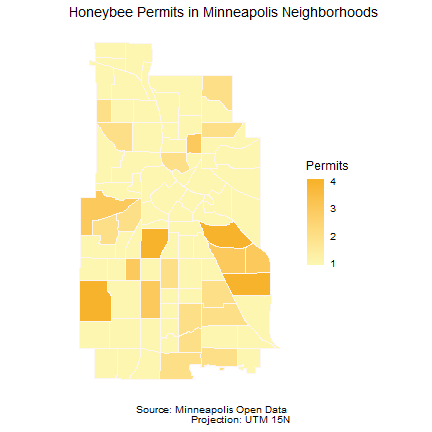
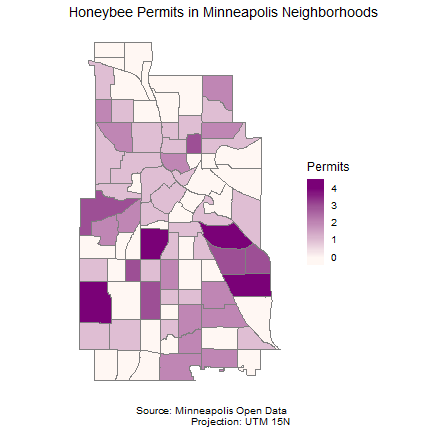
update new calculations

diff --git a/index.html b/index.html
@@ -278,19 +278,19 @@ One way to think about clustering is to ask whether or not the permits are clust
 permits_per_nb &lt;- neighborhoods %&gt;% 
   st_join(honeybees_utm) %&gt;% # which neighborhood is each permit in?
   group_by(BDNAME) %&gt;% # and when we sum by neighborhood
-  summarise(permits = n()) # how many permits total?
+  summarise(permits = sum(!is.na(OBJECTID))) # how many permits total?
 
 summary(permits_per_nb$permits)
 ```
 
 ```
 ##    Min. 1st Qu.  Median    Mean 3rd Qu.    Max. 
-##   1.000   1.000   1.000   1.437   2.000   4.000
+##   0.000   0.000   1.000   1.034   2.000   4.000
 ```
 
 &lt;br&gt;
 
-On average, there are **1.437** honeybee permits per neighborhood. 
+On average, there are **1.034** honeybee permits per neighborhood. 
 
 &lt;br&gt;
 
@@ -387,7 +387,7 @@ moran.mc(honeybees_sp$permits, weights, nsim=9999)
 ## weights: weights  
 ## number of simulations + 1: 10000 
 ## 
-## statistic = 0.085266, observed rank = 9392, p-value = 0.0608
+## statistic = 0.13366, observed rank = 9869, p-value = 0.0131
 ## alternative hypothesis: greater
 ```
 
@@ -397,9 +397,9 @@ moran.mc(honeybees_sp$permits, weights, nsim=9999)
 
 ### Moran's I
 
-statistic = &lt;mark&gt;0.085266&lt;/mark&gt;, observed rank = 9392, p-value = &lt;mark&gt;0.0608&lt;/mark&gt;
+statistic = &lt;mark&gt;0.13366&lt;/mark&gt;, observed rank = 9869, p-value = &lt;mark&gt;0.0131&lt;/mark&gt;
 
-Based on this, we fail to reject our null hypothesis and say that the permits are distributed **spatially randomly** across neighborhoods.
+Based on this, we reject our null hypothesis and say that the permits are **slightly clustered** across neighborhoods.
 
 &lt;img src="index_files/figure-html/unnamed-chunk-23-1.png" width="250px" style="display: block; margin: auto;" /&gt;
 
@@ -418,13 +418,13 @@ Does this make sense?
 
 Grouping points by an areal unit may distort or exaggerate the actual data pattern!
 
-&lt;img src="http://gispopsci.org/wp-content/uploads/2012/09/MAUPZone1.gif" width="200px" style="display: block; margin: auto;" /&gt;
+&lt;img src="http://4.bp.blogspot.com/-_pvMVmjCTQU/TsY9QaWcJaI/AAAAAAAAA30/TGhvGkcnMPY/s1600/Penn+State+Map.gif" width="200px" style="display: block; margin: auto;" /&gt;
 
 ---
 
 ## Modifiable areal unit problem
 
-What if we look at honeybee permits by census block group instead?
+What if we look at honeybee permits by community instead?
 
 
 
@@ -437,7 +437,7 @@ Does this look more or less clustered?
 
 ## Modifiable areal unit problem
 
-According to Moran's I, it's moderately clustered by block group. But we found that it wasn't clustered by neighborhood?
+According to Moran's I, it's spatially random. But we found that it was clustered by neighborhood?
 
 &lt;br&gt;
 &lt;br&gt;
@@ -451,7 +451,7 @@ According to Moran's I, it's moderately clustered by block group. But we found t
 ## weights: weights  
 ## number of simulations + 1: 10000 
 ## 
-## statistic = 0.20973, observed rank = 10000, p-value = 1e-04
+## statistic = -0.10302, observed rank = 5470, p-value = 0.453
 ## alternative hypothesis: greater
 ```
 
